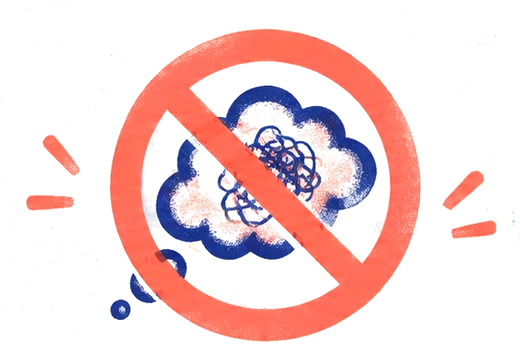
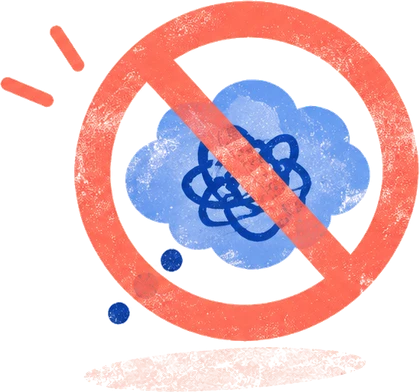
Mythe ou méthode : nouvelles illustrations ; dépliant de consigne retiré
1-1-2 · S2 2.1 : l'interdit sur une bulle de pensée (Mythe) et l'ampoule
(Méthode), détourées sur fond transparent. Pages de consigne : le
dépliant « La situation et les critères » est retiré partout.

diff --git a/moteur/js/exercise.js b/moteur/js/exercise.js
@@ -309,9 +309,6 @@
         ).join('')}</div>`
       : previews && previews.has(current.key) ? previews.preview(current.key) : '';
 
-    const criteria = (brief.criteria || []).map(line =>
-      `<li>${icon('check', { size: 15 })}<span>${esc(line)}</span></li>`).join('');
-
     return `<div class="briefing">
       <header class="briefing-head">
         <p class="briefing-eyebrow"><strong>Exercice</strong><span aria-hidden="true">·</span><span>${esc(current.seriesLabel)}</span></p>
@@ -332,11 +329,6 @@
             ${core.button(`<span>Commencer l’exercice</span>${icon('arrowRight', { size: 19 })}`, 'start-exercise', 'primary')}
           </section>
 
-          <details class="briefing-criteria">
-            <summary>La situation et les critères</summary>
-            <p class="briefing-situation">${esc(brief.situation)}</p>
-            ${criteria ? `<p class="briefing-criteria-title">Vous serez relu sur :</p><ul>${criteria}</ul>` : ''}
-          </details>
         </div>
 
         <div class="briefing-preview">
